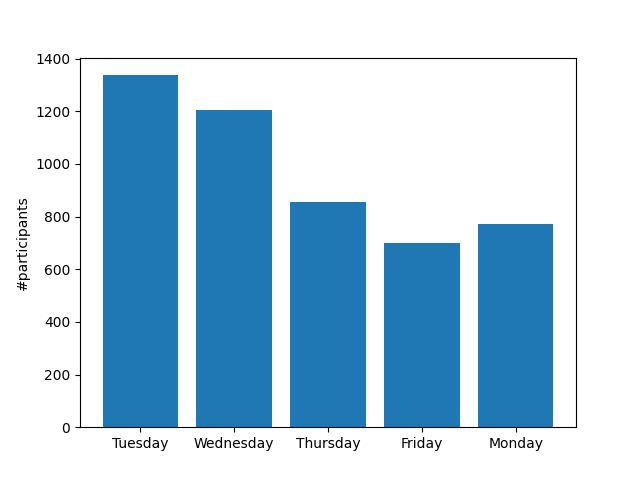
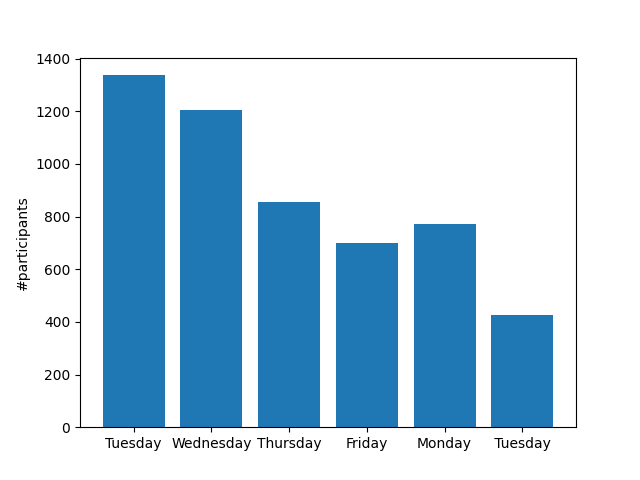
Inclusion of Tuesdays plenaries

Changed region(s): [[0.1562, 0.1562, 0.875, 0.9375]]

diff --git a/analyzeStats.py b/analyzeStats.py
@@ -48,12 +48,15 @@ import numpy as np
 import matplotlib.pyplot as plt
 
 def loadPlenary():
-    d = loadFile('Plenaries/ICHEP2020_Plenary1.csv')
-    df = pd.DataFrame(d, columns = ['name', 'mail', 'mins']) 
-    df['day'] = 'Monday'
-    df['session'] = 'Plenary'
+    dfAll = pd.DataFrame(columns = ['name', 'mail', 'mins', 'day', 'session'])
+    for i,d in  enumerate(['Monday', 'Tuesday']):
+        data = loadFile('Plenaries/ICHEP2020_Plenary'+str(i+1)+'.csv')
+        df = pd.DataFrame(data, columns = ['name', 'mail', 'mins']) 
+        df['day'] = d
+        df['session'] = 'Plenary'
+        dfAll = dfAll.append(df)
 
-    return df
+    return dfAll
 
 def loadAll():
 
@@ -81,10 +84,13 @@ def plotDaysTotal(df, dfPlen):
         val = len(df[(df['day'] == d) & (df['mins'] >= 15)]['name'].unique())
         vals.append(val)
 
-    valPlen = len(dfPlen[dfPlen['mins'] >= 15]['name'].unique())
-    days.append('Monday')
-    vals.append(valPlen)
+    for d in ['Monday', 'Tuesday']:
+        valPlen = len(dfPlen[(dfPlen['mins'] >= 15) & (dfPlen['day'] == d)]['name'].unique())
+        days.append(d)
+        vals.append(valPlen)
 
+    
+    days[-1] = ' '+days[-1]+' '
     plt.bar(days, vals)
     plt.ylabel('#participants')
     #plt.show()

diff --git a/README.md b/README.md
@@ -2,7 +2,7 @@
 
 ## Parallel Sessions (Zoom)
 
-### Number of unique participants for each day
+### Number of unique participants for each day (including plenaries)
 ![Histogram of participants wrt day](plots/DaysTotal.png)
 
 
